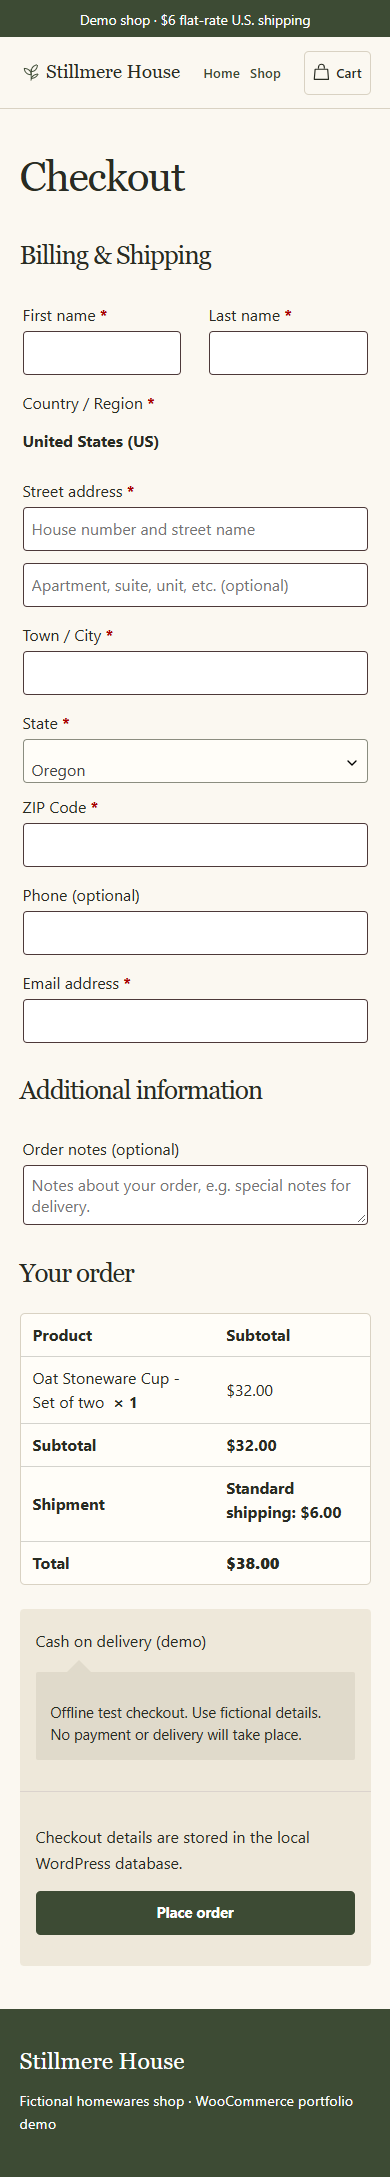
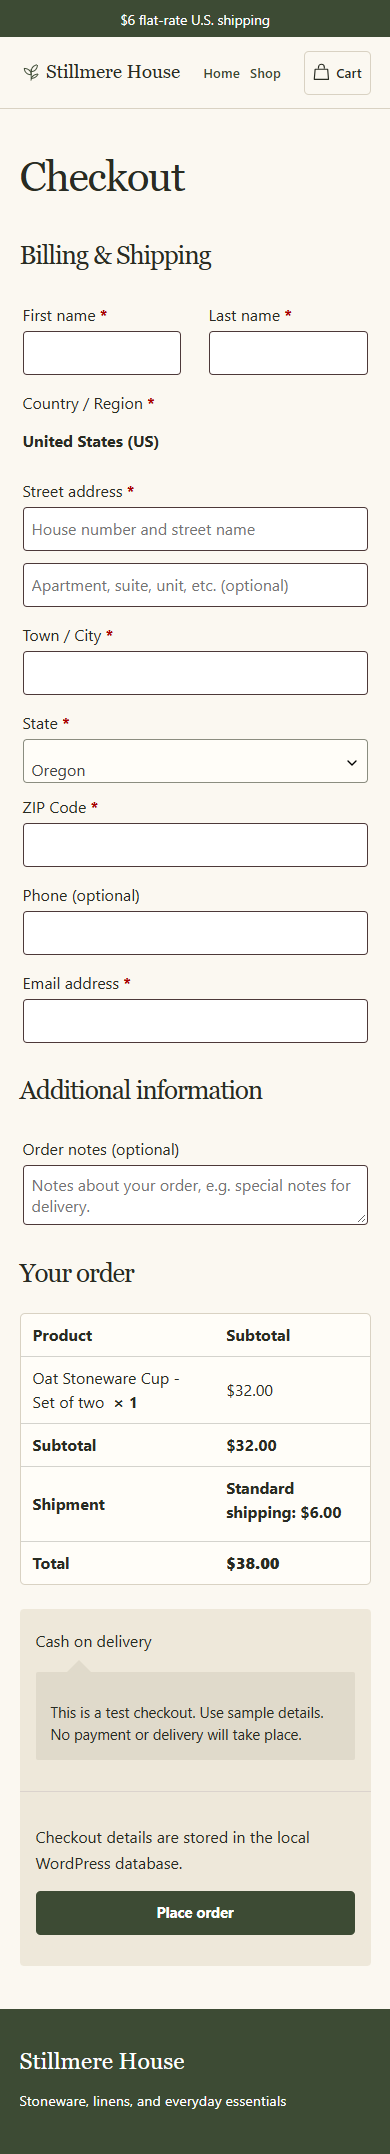
Present Stillmere as a branded storefront case study

diff --git a/theme/stillmere/style.css b/theme/stillmere/style.css
@@ -1,6 +1,6 @@
 /*
 Theme Name: Stillmere House
-Description: A classic storefront theme for the Stillmere House WooCommerce demo.
+Description: A classic WooCommerce storefront theme for Stillmere House.
 Version: 1.0.0
 Requires at least: 6.7
 Requires PHP: 8.1

diff --git a/scripts/seed.php b/scripts/seed.php
@@ -1,10 +1,10 @@
 <?php
 /**
- * Run with wp eval-file scripts/seed.php from a dedicated demo installation.
+ * Run with wp eval-file scripts/seed.php from a dedicated local installation.
  */
 
 if (!class_exists('WooCommerce') || 'stillmere' !== get_stylesheet() || !in_array('stillmere-demo/stillmere-demo.php', get_option('active_plugins', []), true)) {
-    WP_CLI::error('Activate WooCommerce, Stillmere Demo Mode, and the Stillmere House theme first.');
+    WP_CLI::error('Activate WooCommerce, Stillmere Offline Checkout, and the Stillmere House theme first.');
 }
 
 $project = dirname(__DIR__);
@@ -16,7 +16,7 @@ function stillmere_seed_page(string $slug, string $title, string $content, strin
     $assigned_id = $option ? (int) get_option($option) : 0;
     $page = $assigned_id ? get_post($assigned_id) : get_page_by_path($slug);
     if ($page && ('page' !== $page->post_type || ($page->ID !== $assigned_id && !get_post_meta($page->ID, '_stillmere_seed', true)))) {
-        WP_CLI::error("A page with slug {$slug} belongs to another setup. Use a fresh demo installation.");
+        WP_CLI::error("A page with slug {$slug} belongs to another setup. Use a fresh WordPress installation.");
     }
     if ($page && get_post_meta($page->ID, '_stillmere_seed', true)) {
         return $page->ID;
@@ -111,21 +111,21 @@ foreach ([
 
 update_option('woocommerce_cod_settings', [
     'enabled' => 'yes',
-    'title' => 'Cash on delivery (demo)',
-    'description' => 'Offline test checkout. Use fictional details. No payment or delivery will take place.',
-    'instructions' => 'Your demo order was saved locally. No payment is due.',
+    'title' => 'Cash on delivery',
+    'description' => 'This is a test checkout. Use sample details. No payment or delivery will take place.',
+    'instructions' => 'Your test order was saved. No payment is due.',
     'enable_for_methods' => [],
     'enable_for_virtual' => 'no',
 ]);
 
-$demo_zone_id = 0;
+$store_zone_id = 0;
 foreach (WC_Shipping_Zones::get_zones() as $zone_data) {
     if ('Stillmere United States' === $zone_data['zone_name']) {
-        $demo_zone_id = $zone_data['zone_id'];
+        $store_zone_id = $zone_data['zone_id'];
         break;
     }
 }
-$zone = new WC_Shipping_Zone($demo_zone_id);
+$zone = new WC_Shipping_Zone($store_zone_id);
 $zone->set_zone_name('Stillmere United States');
 $zone->set_zone_order(0);
 $zone->set_locations([['code' => 'US', 'type' => 'country']]);
@@ -149,7 +149,7 @@ foreach ($catalog as $position => $record) {
     $existing_id = wc_get_product_id_by_sku($record['sku']);
     $variable = isset($record['options']);
     if ($existing_id && !get_post_meta($existing_id, '_stillmere_seed', true)) {
-        WP_CLI::error('A product already uses demo SKU ' . $record['sku']);
+        WP_CLI::error('A product already uses fixture SKU ' . $record['sku']);
     }
     $product = $existing_id
         ? wc_get_product($existing_id)

diff --git a/theme/stillmere/header.php b/theme/stillmere/header.php
@@ -9,7 +9,7 @@
 <?php wp_body_open(); ?>
 <a class="st-skip" href="#main">Skip to content</a>
 <header class="st-header">
-    <p class="st-announcement">Demo shop · $6 flat-rate U.S. shipping</p>
+    <p class="st-announcement">$6 flat-rate U.S. shipping</p>
     <div class="st-wrap st-header-row">
         <a class="st-brand" href="<?php echo esc_url(home_url('/')); ?>">
             <svg viewBox="0 0 36 36" fill="none" aria-hidden="true">

diff --git a/theme/stillmere/footer.php b/theme/stillmere/footer.php
@@ -1,7 +1,7 @@
 <footer class="st-footer">
     <div class="st-wrap">
         <p class="st-wordmark">Stillmere House</p>
-        <p>Fictional homewares shop · WooCommerce portfolio demo</p>
+        <p>Stoneware, linens, and everyday essentials</p>
     </div>
 </footer>
 <?php wp_footer(); ?>

diff --git a/plugins/stillmere-demo/stillmere-demo.php b/plugins/stillmere-demo/stillmere-demo.php
@@ -1,6 +1,6 @@
 <?php
 /**
- * Plugin Name: Stillmere Demo Mode
+ * Plugin Name: Stillmere Offline Checkout
  * Description: Keeps Stillmere checkout offline-only and disables outbound mail.
  * Version: 1.0.0
  * Requires PHP: 8.1

diff --git a/README.md b/README.md
@@ -1,21 +1,29 @@
 # Stillmere House
 
-Stillmere House is a fictional homewares store built with WordPress, WooCommerce, and a custom classic theme. The collection includes six physical products across Table, Home, and Bath. The Oat Stoneware Cup has two independently priced and stocked variations.
+**Homewares storefront · WordPress and WooCommerce**
 
-## Portfolio walkthrough
+Stillmere House brings a collection of stoneware, linen, and oak into an online shop. Shoppers can browse six products across Table, Home, and Bath, choose a cup pack size, then review quantities and shipping before checkout.
 
-1. Start on the homepage and open **Shop the collection**. Browse the shop and open **Oat Stoneware Cup**.
-2. Choose **Single cup** ($18) or **Set of two** ($32). Add one to the cart and use **Update cart** to change the quantity. The test fixture offers $6 standard U.S. shipping.
-3. Proceed to checkout as a guest. Use fictional details such as Taylor Example, 100 Demo Way, Portland, OR 97201, and `taylor@example.test`. Select **Cash on delivery (demo)** and place the order.
-4. View the order confirmation, then open **WooCommerce → Orders** to inspect the test order, payment method, variation, and quantities. A test checkout uses WooCommerce’s actual order and stock APIs. The demo gateway collects no payment and the local demo sends no email.
-5. Open the Home page in the WordPress block editor and the cup in the WooCommerce product editor to show how the content and catalog can be edited.
+![Stillmere House homepage](screenshots/desktop-home.png)
+
+## Project brief
+
+Give a small homewares collection an editorial storefront with clear product choices and a straightforward guest checkout. Keep catalog and stock management in WooCommerce so the store can be maintained from WordPress.
+
+## Implementation
+
+- A custom storefront theme styles the homepage, catalog, product pages, cart, and checkout. The homepage is editable in the WordPress block editor.
+- The Oat Stoneware Cup offers a **Single cup** at $18 and a **Set of two** at $32. WooCommerce tracks pricing and stock for each pack independently.
+- The cart supports quantity updates and calculates $6 standard U.S. shipping. Guest checkout creates a WooCommerce order and updates inventory using the offline Cash on Delivery gateway.
+
+This is an independent portfolio project for a fictional homewares brand. Checkout is configured for test orders.
 
 ## Run locally
 
 Create a fresh local WordPress installation with PHP 8.1+ and MySQL or MariaDB. Check that your local server supports pretty permalinks. Set `PROJECT` to the absolute path of this checkout and run the following with WP-CLI from the WordPress root. On Windows, use Git Bash or copy the two directories with File Explorer and then run the WP-CLI commands.
 
 ```sh
-PROJECT="/absolute/path/to/home-lifestyle-woocommerce-demo"
+PROJECT="/absolute/path/to/stillmere-house-woocommerce"
 cp -R "$PROJECT/theme/stillmere" wp-content/themes/
 cp -R "$PROJECT/plugins/stillmere-demo" wp-content/plugins/
 wp plugin install woocommerce --activate
@@ -24,9 +32,11 @@ wp theme activate stillmere
 wp eval-file "$PROJECT/scripts/seed.php"
 ```
 
-Open the URL printed by the seed script. The script builds the pages and catalog, attaches local images, and sets the shop currency, U.S. shipping, guest checkout, and offline gateway. It leaves previously seeded page and product content in place on a rerun. Store-level demo settings are applied each time.
+Open the URL printed by the seed script. The script builds the pages and catalog, attaches local images, and sets the shop currency, U.S. shipping, guest checkout, and offline gateway. It leaves previously seeded page and product content in place on a rerun. Store settings are applied each time.
 
-Use a dedicated install. The demo plugin permits only WooCommerce’s Cash on Delivery gateway and suppresses outbound WordPress mail. The cart and checkout use WooCommerce’s supported classic shortcodes and templates. No payment service, external theme, or paid extension is required.
+Use a dedicated install. The offline checkout plugin permits only WooCommerce’s Cash on Delivery gateway and suppresses outbound WordPress mail. The cart and checkout use WooCommerce’s supported classic shortcodes and templates.
+
+To test checkout, add the **Set of two** cup variation, change the cart quantity to two, and check out as a guest using sample details such as Taylor Example, 100 Sample Way, Portland, OR 97201, and `taylor@example.test`. Choose **Cash on delivery**. Confirm the $70.00 total and check the saved order under **WooCommerce → Orders**.
 
 ## Verification
 
